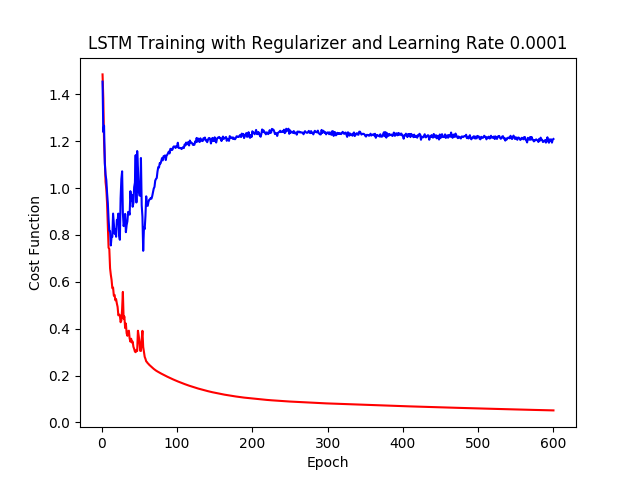
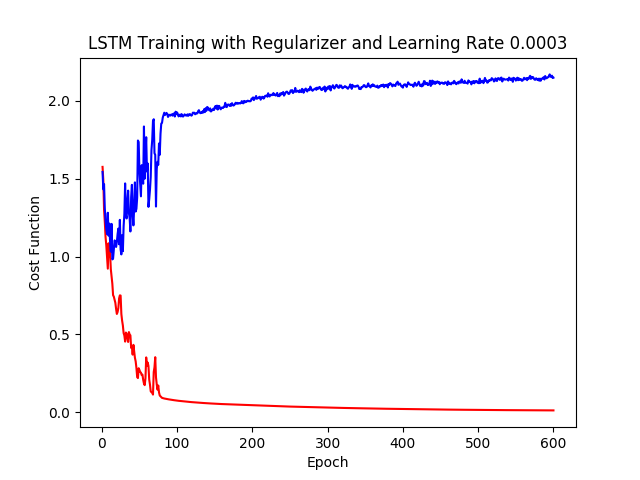
Randomize the data inside 3 classes, then random train-test-val

diff --git a/mathquest_lstm.py b/mathquest_lstm.py
@@ -69,22 +69,30 @@ wordVectors = np.load('wordVectors.npy')
 # 	if 10 <= len(cleanSentences(probstat_data[i][0]).split()) <= 50:
 # 		probstat_new.append(probstat_data[i])
 
+# random.shuffle(calculus_new)
+# random.shuffle(linalg_new)
+# random.shuffle(probstat_new)
+
 # len_calculus = len(calculus_new)
 # len_linalg = len(linalg_new)
 # len_probstat = len(probstat_new)
 
 # #setting up the dataset for training, validation and testing
-# # train_fetch = calculus_new[:int(0.7*len_calculus)] + linalg_new[:int(0.7*len_linalg)] \
-# # 	+ probstat_new[:int(0.7*len_probstat)]
-# # val_fetch = calculus_new[int(0.7*len_calculus):int(0.85*len_calculus)] \
-# # 	+ linalg_new[int(0.7*len_linalg):int(0.85*len_linalg)] \
-# # 	+ probstat_new[int(0.7*len_probstat):int(0.85*len_probstat)]
-# # test_fetch = calculus_new[int(0.85*len_calculus):] + linalg_new[int(0.85*len_linalg):] \
-# # 	+ probstat_new[int(0.85*len_probstat):]
+# train_fetch = calculus_new[:int(0.7*len_calculus)] + linalg_new[:int(0.7*len_linalg)] \
+#  	+ probstat_new[:int(0.7*len_probstat)]
+# val_fetch = calculus_new[int(0.7*len_calculus):int(0.85*len_calculus)] \
+#  	+ linalg_new[int(0.7*len_linalg):int(0.85*len_linalg)] \
+#  	+ probstat_new[int(0.7*len_probstat):int(0.85*len_probstat)]
+# test_fetch = calculus_new[int(0.85*len_calculus):] + linalg_new[int(0.85*len_linalg):] \
+#  	+ probstat_new[int(0.85*len_probstat):]
 
-# train_fetch = calculus_new[:128] + linalg_new[:128] + probstat_new[:128]
-# val_fetch = calculus_new[128:192] + linalg_new[128:192] + probstat_new[128:192]
-# test_fetch = calculus_new[192:256] + linalg_new[192:256] + probstat_new[192:256]
+# #train_fetch = calculus_new[:128] + linalg_new[:128] + probstat_new[:128]
+# #val_fetch = calculus_new[128:192] + linalg_new[128:192] + probstat_new[128:192]
+# #test_fetch = calculus_new[192:256] + linalg_new[192:256] + probstat_new[192:256]
+
+# random.shuffle(train_fetch)
+# random.shuffle(val_fetch)
+# random.shuffle(test_fetch)
 
 # train_data, train_label = [pair[0] for pair in train_fetch], [pair[1] for pair in train_fetch]
 # val_data, val_label = [pair[0] for pair in val_fetch], [pair[1] for pair in val_fetch]
@@ -138,37 +146,37 @@ wordVectors = np.load('wordVectors.npy')
 # 	test_data_num.append(numbered_sentence)
 
 # #write into csv file for the future network training and testing
-# with open('small_train_data.csv', mode='w') as csv_file:
+# with open('train_data.csv', mode='w') as csv_file:
 # 	writer = csv.writer(csv_file)
 
 # 	for i in range(len(train_data_num)):
 # 		writer.writerow(train_data_num[i])
 
-# with open('small_val_data.csv', mode='w') as csv_file:
+# with open('val_data.csv', mode='w') as csv_file:
 # 	writer = csv.writer(csv_file)
 
 # 	for i in range(len(val_data_num)):
 # 		writer.writerow(val_data_num[i])
 
-# with open('small_test_data.csv', mode='w') as csv_file:
+# with open('test_data.csv', mode='w') as csv_file:
 # 	writer = csv.writer(csv_file)
 
 # 	for i in range(len(test_data_num)):
 # 		writer.writerow(test_data_num[i])
 
-# with open('small_train_label.csv', mode='w') as csv_file:
+# with open('train_label.csv', mode='w') as csv_file:
 # 	writer = csv.writer(csv_file)
 
 # 	for i in range(len(train_label)):
 # 		writer.writerow(train_label[i])
 
-# with open('small_val_label.csv', mode='w') as csv_file:
+# with open('val_label.csv', mode='w') as csv_file:
 # 	writer = csv.writer(csv_file)
 
 # 	for i in range(len(val_label)):
 # 		writer.writerow(val_label[i])
 
-# with open('small_test_label.csv', mode='w') as csv_file:
+# with open('test_label.csv', mode='w') as csv_file:
 # 	writer = csv.writer(csv_file)
 
 # 	for i in range(len(test_label)):
@@ -182,8 +190,8 @@ maxSeqLength = 50 # to keep up with some lengthy problems
 batchSize = 64 #to split the dataset into batches to prevent overflowing of the data
 lstmUnits = 512 #number of units for LSTM
 numDimensions = 50 #number of nodes in the hidden layer
-learning_rate = 1e-4 #learning rate of this model
-training_epoch = 600
+learning_rate = 3e-4 #learning rate of this model
+training_epoch = 150
 reg_param = 0.1
 
 #defining the input of the network
@@ -220,7 +228,7 @@ with tf.device("/gpu:0"):
 
 	init_op = tf.global_variables_initializer()
 
-f = open("lstm_190320_smalldata_600epoch.txt", 'w')
+f = open("lstm_190320_150epoch.txt", 'w')
 f.write("Result of the Experiment\n\n")
 
 # #Phase 3 : Setting up the starting of the network evaluation (session setup)
@@ -230,37 +238,37 @@ train_data_sess, train_label_sess = [], []
 val_data_sess, val_label_sess = [], []
 test_data_sess, test_label_sess = [], []
 
-with open('small_train_data.csv') as csv_file:
+with open('train_data.csv') as csv_file:
 	csv_reader = csv.reader(csv_file, delimiter = ",")
 	for row in csv_reader:
 		data_input = [int(i) for i in row]
 		train_data_sess.append(data_input)
 
-with open('small_train_label.csv') as csv_file:
+with open('train_label.csv') as csv_file:
 	csv_reader = csv.reader(csv_file, delimiter = ",")
 	for row in csv_reader:
 		label_input = [float(i) for i in row]
 		train_label_sess.append(label_input)
 
-with open('small_val_data.csv') as csv_file:
+with open('val_data.csv') as csv_file:
 	csv_reader = csv.reader(csv_file, delimiter = ",")
 	for row in csv_reader:
 		data_input = [int(i) for i in row]
 		val_data_sess.append(data_input)
 
-with open('small_val_label.csv') as csv_file:
+with open('val_label.csv') as csv_file:
 	csv_reader = csv.reader(csv_file, delimiter = ",")
 	for row in csv_reader:
 		label_input = [float(i) for i in row]
 		val_label_sess.append(label_input)
 
-with open('small_test_data.csv') as csv_file:
+with open('test_data.csv') as csv_file:
 	csv_reader = csv.reader(csv_file, delimiter = ",")
 	for row in csv_reader:
 		data_input = [int(i) for i in row]
 		test_data_sess.append(data_input)
 
-with open('small_test_label.csv') as csv_file:
+with open('test_label.csv') as csv_file:
 	csv_reader = csv.reader(csv_file, delimiter = ",")
 	for row in csv_reader:
 		label_input = [float(i) for i in row]
@@ -281,6 +289,7 @@ test_data_sess, test_label_sess = zip(*test_sess)
 f.write("Setup : LSTM Units = " + str(lstmUnits) + "\n\n")
 f.write("Regularizer = " + str(reg_param) + " and Learning Rate = " + str(learning_rate) + "\n\n")
 epoch_list, cost_list, cost_val_list = [], [], []
+#epoch_list, cost_list = [], []
 
 saver = tf.train.Saver()
 
@@ -306,7 +315,7 @@ with tf.Session() as sess:
 		for i in range(no_of_batches_val):
 			batch_in, batch_out = val_data_sess[ptr:ptr+batchSize], val_label_sess[ptr:ptr+batchSize]
 			ptr += batchSize
-
+		
 			cost_val = sess.run(loss, feed_dict = {input_data : batch_in, labels : batch_out})
 			total_cost_val += cost_val / no_of_batches_val
 
@@ -341,7 +350,7 @@ with tf.Session() as sess:
 
 		print("Epoch", epoch + 1, "finished")
 
-		if epoch in [9, 59, 119, 179, 239, 299, 359, 419, 479, 539, 599]:
+		if epoch in [14, 29, 44, 69, 74, 89, 104, 119, 134, 149]:
 			f.write("During the " + str(epoch + 1) + "-th epoch:\n")
 			f.write("Training Accuracy = " + str(100 * acc_train) + "\n")
 			f.write("Validation Accuracy = " + str(100 * acc_val) + "\n")
@@ -349,14 +358,14 @@ with tf.Session() as sess:
 
 	print("Optimization Finished")
 
-	saver.save(sess, "./model_190320_small.ckpt")
+	saver.save(sess, "./model_190320.ckpt")
 	
-	plt.plot(epoch_list, cost_list, "r", epoch_list, cost_val_list, "b")
+	plt.plot(epoch_list, cost_list)
 	plt.xlabel("Epoch")
 	plt.ylabel("Cost Function")
 
 	plt.title("LSTM Training with Regularizer and Learning Rate " + str(learning_rate))
 
-	plt.savefig("LSTM_Training_190320_600epoch_smalldata.png")
+	plt.savefig("LSTM_Training_190320_150epoch.png")
 
 	plt.clf()
